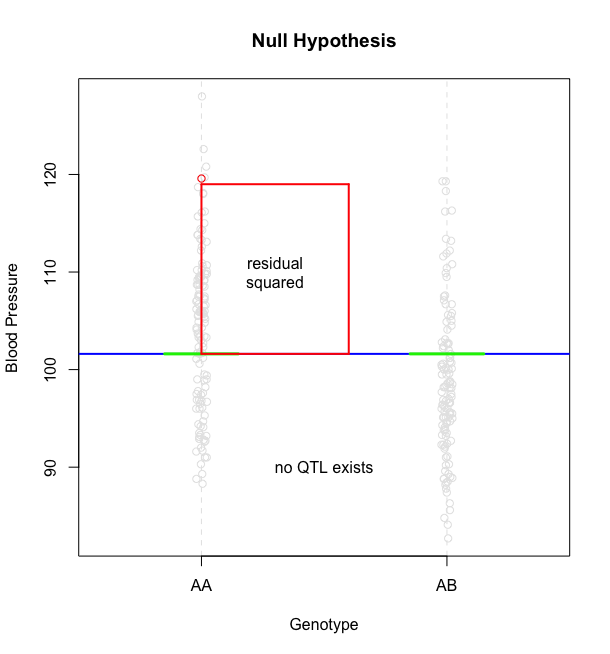
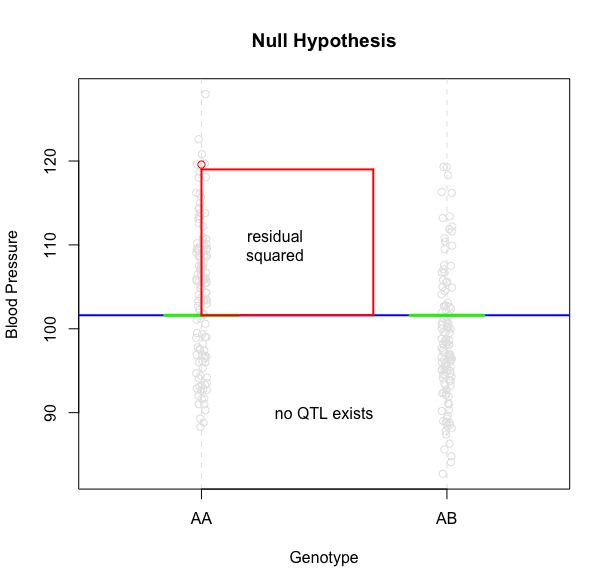
updated figs and explanation of regression

diff --git a/_episodes/06-perform-genome-scan.md b/_episodes/06-perform-genome-scan.md
@@ -21,25 +21,23 @@ source: Rmd
 
 The freely available chapter on [single-QTL analysis](http://www.rqtl.org/book/rqtlbook_ch04.pdf) from Broman and Sen's [A Guide to QTL Mapping with R/qtl](http://www.rqtl.org/book/) describes different methods for QTL analysis. Two of these methods are described here using data from an experiment on hypertension in the mouse [Sugiyama et al., Genomics 71:70-77, 2001](https://s3.amazonaws.com/academia.edu.documents/45963759/geno.2000.640120160526-29022-36mpgg.pdf?AWSAccessKeyId=AKIAIWOWYYGZ2Y53UL3A&Expires=1513786158&Signature=rtodlYwe0LDmYZFOm1ejvZjZhQ0%3D&response-content-disposition=inline%3B%20filename%3DConcordance_of_murine_quantitative_trait.pdf). The study employed a backcross between two mouse strains resulting in two possible genotypes - AA for homozygotes, and AB for heterozygotes. 
 
-Linear regression can be employed to identify presence of QTL in a cross. To identify QTL using regression, we compare the fit for two models: 1) the null hypothesis that there are no QTL anywhere in the genome; and 2) the alternative hypothesis that there is a QTL at a specific locus. 
+Linear regression can be employed to identify presence of QTL in a cross. To identify QTL using regression, we compare the fit for two models: 1) the null hypothesis that there are no QTL anywhere in the genome; and 2) the alternative hypothesis that there is a QTL at a specific locus. A sloped line indicates that there is a difference in mean phenotype between the two genotype groups, and that a QTL is present. A line with no slope indicates that there is no difference in mean phenotype between the two groups, and that no QTL exists. Regression aims to find the line of best fit to the data. In the case of a backcross with only two genotypes, a t-test is performed at the marker to determine whether the difference in phenotype means is zero.
 
 ![](../fig/nullvalt.png)
 
-A regression line drawn between phenotype means for two genotype groups AA and AB will have a slope of zero if there is no difference between the group means. A slope not equal to zero indicates a difference in group means and the presence of a QTL near the markers. 
+Marker regression produces a LOD (logarithm of odds) score comparing the null hypothesis to the alternative. The LOD score is the difference between the log10 likelihood under the alternative hypothesis that there is a QTL at the position, and the log10 likelihood of the null hypothesis, that there is no QTL anywhere in the genome. It is related to the regression model above by identifying the line of best fit to the data - a sloped line indicating a QTL at the position, or a line with a slope of zero indicating no QTL. The line of best fit will be the one that minimizes the sum of squared residuals, which maximizes the likelihood of the data.
 
-Marker regression, as shown below, can identify the existence and effect of a QTL by comparing means between groups, however, it requires known marker genotypes and can't identify QTL in between typed markers.
-
-![](../fig/marker-regress.png)
-
-Marker regression produces a LOD (logarithm of odds) score comparing the null hypothesis to the alternative. The LOD score is the difference between the log10 likelihood under the alternative hypothesis that there is a QTL at the position, and the log10 likelihood of the null hypothesis, that there is no QTL anywhere in the genome. It is related to the regression model above by identifying the line of best fit to the data - a sloped line indicating a QTL at the position, or a line with a slope of zero indicating no QTL.
-
-![](../fig/null.png)
 ![](../fig/residual.png)
-![](../fig/nullvalt.png)
 ![](../fig/squared-residual.png)
+![](../fig/null.png)
 
-LOD = n/2log10RSS0/RSS1
-After [calculating genotype probabilities](https://smcclatchy.github.io/mapping/03-calc-genoprob/), we can regress the phenotypes for animals of unknown genotype on these conditional genotype probabilities (conditional on known marker genotypes). In Haley-Knott regression, phenotype values can be plotted and a regression line drawn through the phenotype mean for the untyped individuals.
+The LOD score is calculated using the sum of squared residuals for the null and alternative hypotheses.
+
+$LOD = n/2 * log^~{10}~(RSS^~{0}~/RSS^~{1}~)$ 
+
+The higher LOD score indicates greater likelihood of the alternative hypothesis. 
+
+Marker regression can identify the existence and effect of a QTL by comparing means between groups, however, it requires known marker genotypes and can't identify QTL in between typed markers. To identify QTL between typed markers, we can use Haley-Knott regression. After [calculating genotype probabilities](https://smcclatchy.github.io/mapping/03-calc-genoprob/), we can regress the phenotypes for animals of unknown genotype on these conditional genotype probabilities (conditional on known marker genotypes). In Haley-Knott regression, phenotype values can be plotted and a regression line drawn through the phenotype mean for the untyped individuals.
 
 ![](../fig/hk-regress.png)
 
